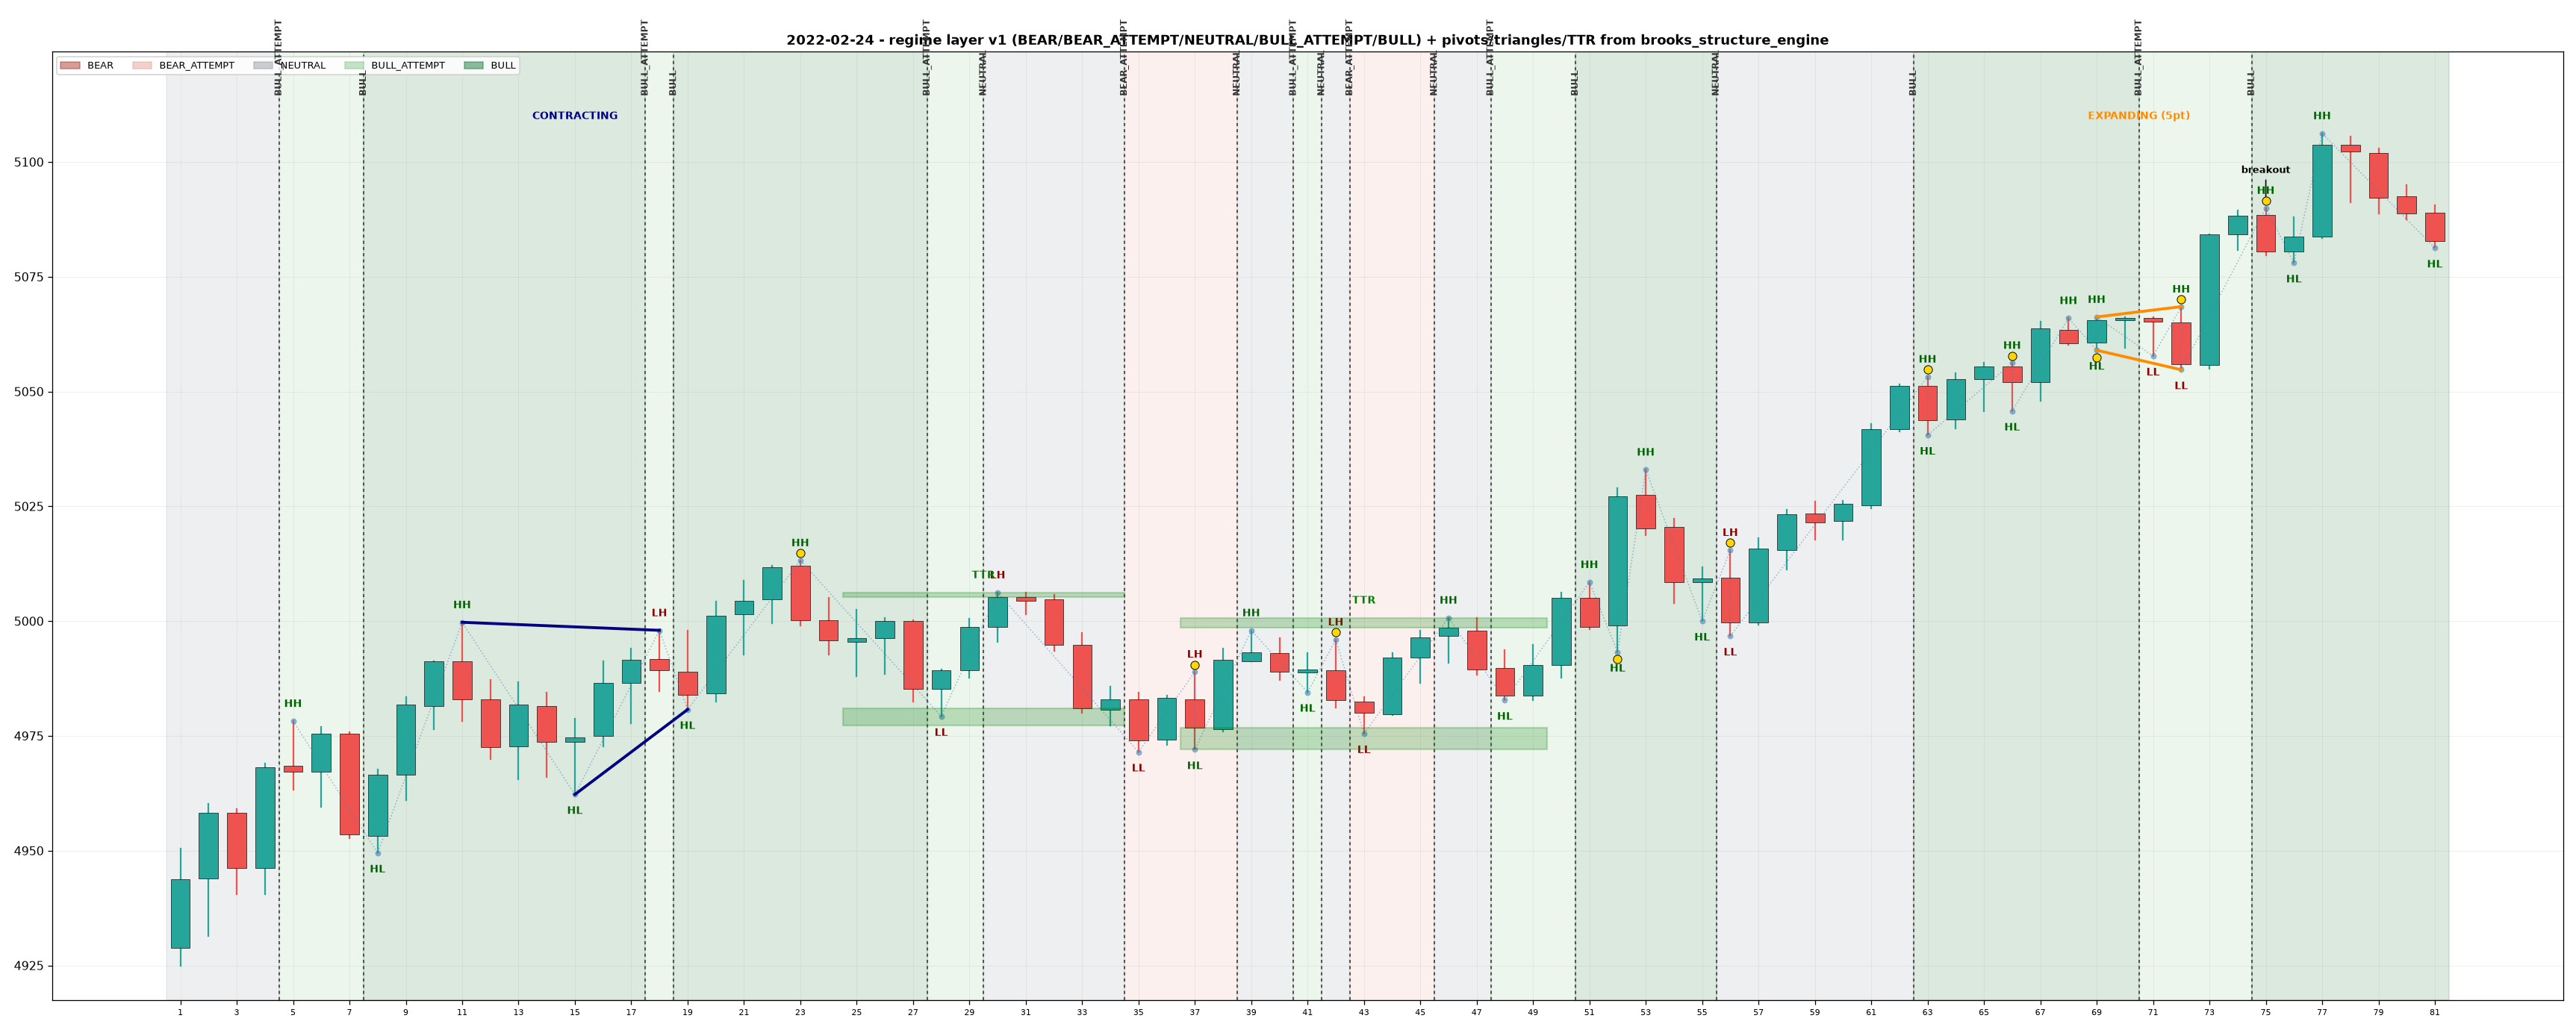
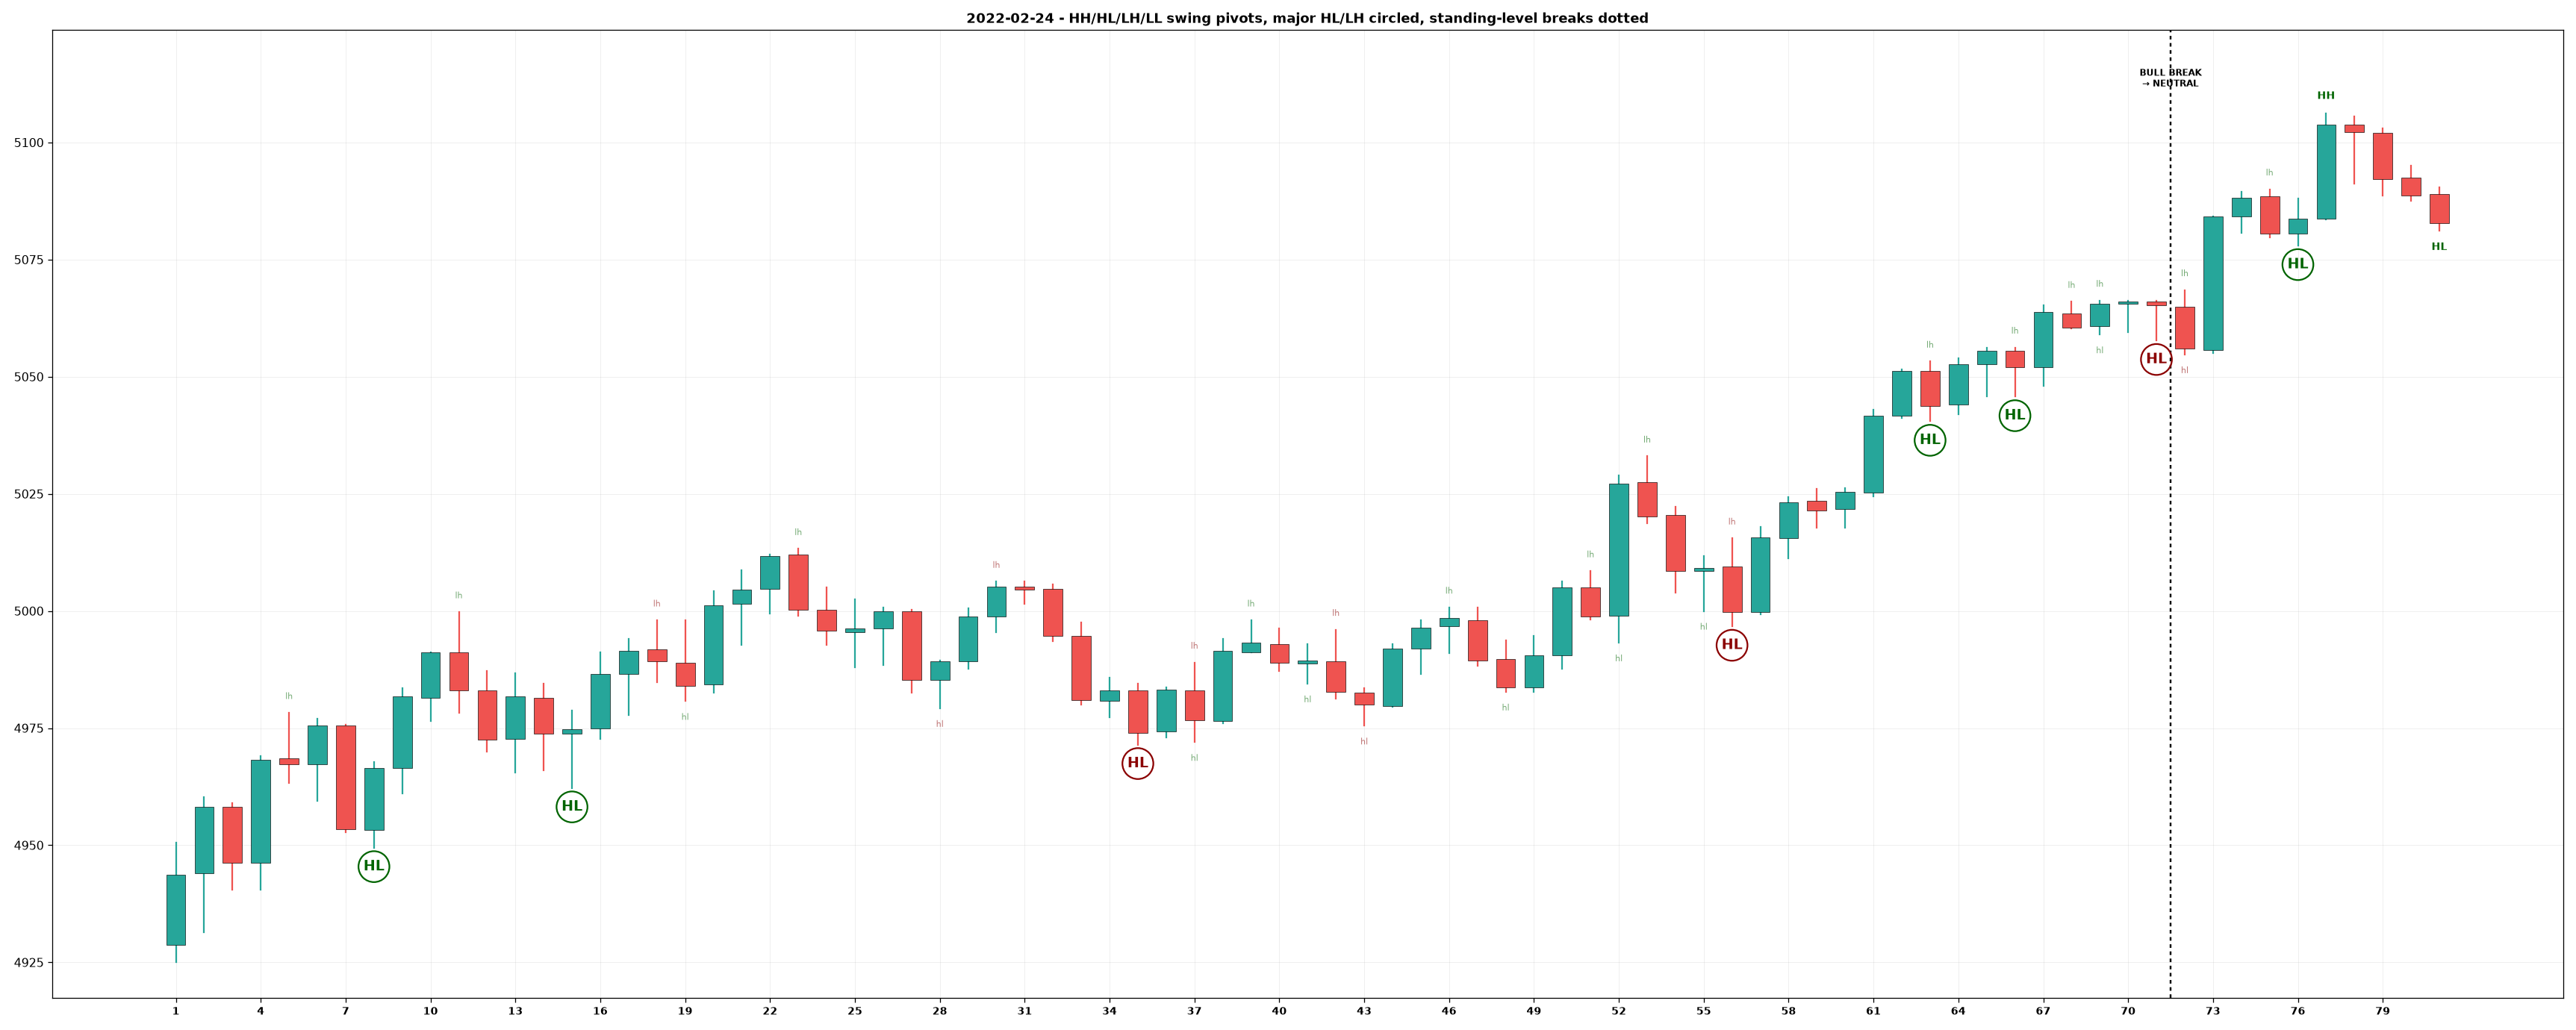
feat(regime-v2): major/minor HL/LH, standing-level break detection, attempt-phase gate
Extends brooks_regime_layer.py (built on, not modifying, brooks_structure_engine.py):
- major vs minor HL/LH: deepest/highest pending pivot confirmed major only when a
  later bar's raw extreme beats the running day high/low, tick-order aware for OB bars
- standing major level persists until superseded or broken (break -> neutral, drawn
  as a dotted flip line)
- post-break reconfirmation requires an actual HH/LH pivot, not just any new-extreme
  poke, so the attempt phase can't self-confirm off the break bar's own wick

Validated bar-by-bar against user's chart reads on 2022-02-24 (major HL at 8/15/35/
56/63/66/71/76, minor at 19, break at 72). Bear side (major LH) implemented but not
yet validated - 2022-04-12 is next.

diff --git a/scripts/brooks_regime_layer.py b/scripts/brooks_regime_layer.py
@@ -186,64 +186,115 @@ def build(DAY):
         regime[i] = cur
     flips = [i for i in range(1, n) if regime[i] != regime[i-1]]
 
-    # ---- chart (base layers mirror brooks_structure_engine.py, regime is new) ----
-    pb = [p[0] for p in piv]; pp = [H[p[0]] if p[1] == "H" else L[p[0]] for p in piv]
-    fig, ax = plt.subplots(figsize=(30, 12)); off = 0.014*(H.max()-L.min())
+    # ==== NEW: major/minor HL (bull) and LH (bear) — coarse swing structure, distinct
+    # from the fine-grained two-bar/OB tags above. A candidate L-pivot (any HL/LL/DL)
+    # becomes the tracked "deepest pullback since last confirmation"; it is promoted to
+    # MAJOR only when a later bar's raw High exceeds the running all-time-high that stood
+    # when this candidate was set. Mirrored for H-pivots (HH/LH/DH) -> major LH, confirmed
+    # when a later bar's raw Low undercuts the running all-time-low.
+    #
+    # An OB/equal bar can contain BOTH a high-side and low-side event in one bar — the
+    # confirm-check, break-check, and candidate-update for each side must run in the
+    # bar's actual tick order (already known via evs[i], the same tick-order info the
+    # swing-pivot decomposition above uses), or a bar like an outside bar that broke down
+    # first then rallied to a new extreme gets misread as its OWN new candidate low
+    # instead of merely confirming the PRIOR candidate.
+    #
+    # standing_major_hl/lh = the last CONFIRMED major level, persists until superseded by
+    # the next confirmation or BROKEN (a bar's Low undercuts standing_major_hl, or High
+    # exceeds standing_major_lh) -> recorded in `breaks` as a trend-break-to-neutral event.
+    major_hl = {}; minor_hl = {}   # bar -> low
+    major_lh = {}; minor_lh = {}   # bar -> high
+    breaks = []                    # (bar, "bull"|"bear") — standing major level taken out
+    run_max_H = H[0]; run_min_L = L[0]
+    standing_major_hl = None; standing_major_lh = None
+    cand_lo = None    # (bar, low) deepest L-pivot pending confirmation as major HL
+    cand_hi = None    # (bar, high) highest H-pivot pending confirmation as major LH
+    bull_attempt = False   # since the last bull break: reconfirmation needs a genuine HH pivot,
+    bear_attempt = False   # not just any bar poking a new extreme (S72 ATTEMPT-state intent)
+    break_bar_bull = None  # the exact bar of the last bull break — its OWN pivot (if any)
+    break_bar_bear = None  # doesn't seed the next candidate; the bar AFTER it can
+    tagged_by_bar = {}
+    for (bar, typ, t) in tagged: tagged_by_bar.setdefault(bar, []).append(typ)
 
-    # regime background shading — drawn first, lowest z-order, full height
-    k = 0
-    while k < n:
-        j = k
-        while j+1 < n and regime[j+1] == regime[k]: j += 1
-        ax.axvspan(k-0.5, j+0.5, color=STATE_COLOR[regime[k]], alpha=0.16, zorder=0)
-        k = j+1
+    def do_up(i):
+        nonlocal run_max_H, standing_major_lh, standing_major_hl, cand_lo, cand_hi, bull_attempt, bear_attempt, break_bar_bear
+        if standing_major_lh is not None and H[i] > standing_major_lh:
+            breaks.append((i, "bear")); standing_major_lh = None; cand_hi = None; bear_attempt = True; break_bar_bear = i
+        ok_to_confirm = (not bull_attempt) or ("H" in tagged_by_bar.get(i, []))
+        if H[i] > run_max_H and cand_lo is not None and cand_lo[0] != i and ok_to_confirm:
+            major_hl[cand_lo[0]] = cand_lo[1]; standing_major_hl = cand_lo[1]; cand_lo = None; bull_attempt = False
+        run_max_H = max(run_max_H, H[i])
+        if "H" in tagged_by_bar.get(i, []):
+            if i == break_bar_bear:
+                minor_lh[i] = H[i]   # the break bar's own high doesn't seed the next candidate
+            elif cand_hi is None or H[i] > cand_hi[1]:
+                if cand_hi is not None: minor_lh[cand_hi[0]] = cand_hi[1]
+                cand_hi = (i, H[i])
+            else:
+                minor_lh[i] = H[i]
+
+    def do_down(i):
+        nonlocal run_min_L, standing_major_hl, standing_major_lh, cand_hi, cand_lo, bull_attempt, bear_attempt, break_bar_bull
+        if standing_major_hl is not None and L[i] < standing_major_hl:
+            breaks.append((i, "bull")); standing_major_hl = None; cand_lo = None; bull_attempt = True; break_bar_bull = i
+        ok_to_confirm = (not bear_attempt) or ("L" in tagged_by_bar.get(i, []))
+        if L[i] < run_min_L and cand_hi is not None and cand_hi[0] != i and ok_to_confirm:
+            major_lh[cand_hi[0]] = cand_hi[1]; standing_major_lh = cand_hi[1]; cand_hi = None; bear_attempt = False
+        run_min_L = min(run_min_L, L[i])
+        if "L" in tagged_by_bar.get(i, []):
+            if i == break_bar_bull:
+                minor_hl[i] = L[i]   # the break bar's own low doesn't seed the next candidate
+            elif cand_lo is None or L[i] < cand_lo[1]:
+                if cand_lo is not None: minor_hl[cand_lo[0]] = cand_lo[1]
+                cand_lo = (i, L[i])
+            else:
+                minor_hl[i] = L[i]
+
+    for i in range(n):
+        for ev in evs.get(i, []):
+            do_up(i) if ev == "U" else do_down(i)
+
+    # ---- chart: candles + HH/HL/LH/LL labels only (stripped for bar-by-bar review) ----
+    fig, ax = plt.subplots(figsize=(30, 12)); off = 0.014*(H.max()-L.min())
 
     for i in range(n):
         col = "#26a69a" if C[i] >= O[i] else "#ef5350"
         ax.plot([i, i], [L[i], H[i]], color=col, lw=1.4, zorder=2)
         ax.add_patch(plt.Rectangle((i-0.34, min(O[i], C[i])), 0.68, max(abs(C[i]-O[i]), .02), facecolor=col, edgecolor="black", lw=0.4, zorder=3))
-    for i, s in ob_side.items():
-        ax.plot(i, H[i]+off*0.6 if s == "U" else L[i]-off*0.6, "o", ms=7, color="gold", mec="black", mew=0.6, zorder=8)
-    ax.plot(pb, pp, color="steelblue", lw=1.0, ls=":", marker="o", ms=4, alpha=0.5, zorder=5)
     for (bar, typ, t) in tagged:
-        c = "darkgreen" if t in ("HH","HL") else ("darkred" if t in ("LH","LL") else "gray")
-        ax.text(bar, (H[bar]+off) if typ == "H" else (L[bar]-off), t, ha="center", va="bottom" if typ == "H" else "top", fontsize=8.5, fontweight="bold", color=c, zorder=7)
+        if t not in ("HH", "HL", "LH", "LL"): continue
+        c = "darkgreen" if t in ("HH","HL") else "darkred"
+        y = (H[bar]+off) if typ == "H" else (L[bar]-off)
+        va = "bottom" if typ == "H" else "top"
+        if typ == "L" and bar in major_hl:
+            ax.text(bar, y, "HL", ha="center", va=va, fontsize=12, fontweight="bold", color=c, zorder=7,
+                    bbox=dict(boxstyle="circle,pad=0.35", fc="none", ec=c, lw=1.4))
+        elif typ == "H" and bar in major_lh:
+            ax.text(bar, y, "LH", ha="center", va=va, fontsize=12, fontweight="bold", color=c, zorder=7,
+                    bbox=dict(boxstyle="circle,pad=0.35", fc="none", ec=c, lw=1.4))
+        elif typ == "L" and bar in minor_hl:
+            ax.text(bar, y, "hl", ha="center", va=va, fontsize=7, fontweight="normal", color=c, alpha=0.55, zorder=7)
+        elif typ == "H" and bar in minor_lh:
+            ax.text(bar, y, "lh", ha="center", va=va, fontsize=7, fontweight="normal", color=c, alpha=0.55, zorder=7)
+        else:
+            ax.text(bar, y, t, ha="center", va=va, fontsize=8.5, fontweight="bold", color=c, zorder=7)
 
-    def draw_tri(mem, color, fill, label, brk=None):
-        Hs = [(tagged[m][0], px(m)) for m in mem if tagged[m][1] == "H"]
-        Ls = [(tagged[m][0], px(m)) for m in mem if tagged[m][1] == "L"]
-        x0 = min(Hs[0][0], Ls[0][0])-0.5; x1 = max(Hs[-1][0], Ls[-1][0])+0.5
-        ax.plot([Hs[0][0], Hs[-1][0]], [Hs[0][1], Hs[-1][1]], color=color, lw=2.4, zorder=6)
-        ax.plot([Ls[0][0], Ls[-1][0]], [Ls[0][1], Ls[-1][1]], color=color, lw=2.4, zorder=6)
-        ax.text((x0+x1)/2, H.max()+off, label, ha="center", va="bottom", fontsize=9, fontweight="bold", color=color, zorder=9)
-        if brk is not None:
-            ax.annotate("breakout", (brk, H[brk]), (brk, H[brk]+off*3), fontsize=8, color="black", fontweight="bold", ha="center", arrowprops=dict(arrowstyle="->", color="black"))
-    for (Hs, Ls, mem) in contract: draw_tri(mem, "navy", None, "CONTRACTING")
-    for (mem, brk) in expand: draw_tri(mem, "darkorange", None, "EXPANDING (5pt)", brk)
-    for (a, z) in ttr:  # TTR boundary ZONES
-        top_body = C[a:z+1].max(); top_wick = H[a:z+1].max()
-        bot_body = C[a:z+1].min(); bot_wick = L[a:z+1].min()
-        x0, x1 = a-0.5, z+0.5
-        ax.add_patch(plt.Rectangle((x0, top_body), x1-x0, top_wick-top_body, facecolor="green", alpha=0.22, edgecolor="green", lw=1.4, zorder=11))
-        ax.add_patch(plt.Rectangle((x0, bot_wick), x1-x0, bot_body-bot_wick, facecolor="green", alpha=0.22, edgecolor="green", lw=1.4, zorder=11))
-        ax.text((x0+x1)/2, top_wick+off*1.0, "TTR", ha="center", va="bottom", fontsize=9, fontweight="bold", color="green", zorder=11)
-
-    # NEW: dotted flip lines + state-name tag at each regime transition
-    for i in flips:
-        ax.axvline(i-0.5, color="#555555", lw=1.3, ls=(0, (2, 2)), zorder=4)
-        ax.text(i-0.5, H.max()+off*3.2, STATE_NAME[regime[i]], ha="center", va="bottom", fontsize=7.5, fontweight="bold", color="#333333", rotation=90, zorder=9)
+    for (bar, side) in breaks:
+        ax.axvline(bar-0.5, color="black", lw=1.5, ls=(0, (2, 2)), zorder=4)
+        ax.text(bar-0.5, H.max()+off*2, "%s BREAK\n→ NEUTRAL" % side.upper(), ha="center", va="bottom", fontsize=7.5, fontweight="bold", color="black", zorder=9)
 
     ax.set_ylim(L.min()-off*3, H.max()+off*7)
-    ax.set_xticks(range(0, n, 2)); ax.set_xticklabels([str(i+1) for i in range(0, n, 2)], fontsize=7); ax.grid(alpha=0.25, lw=0.5)
-    ax.set_title("%s - regime layer v1 (%s) + pivots/triangles/TTR from brooks_structure_engine" % (DAY, "/".join(STATE_NAME[s] for s in (-2,-1,0,1,2))), fontsize=11, fontweight="bold")
-
-    # legend for regime shading
-    handles = [plt.Rectangle((0,0),1,1, color=STATE_COLOR[s], alpha=0.5) for s in (-2,-1,0,1,2)]
-    ax.legend(handles, [STATE_NAME[s] for s in (-2,-1,0,1,2)], loc="upper left", fontsize=8, ncol=5, framealpha=0.85)
+    ax.set_xticks(range(0, n, 3)); ax.set_xticklabels([str(i+1) for i in range(0, n, 3)], fontsize=9, fontweight="bold"); ax.grid(alpha=0.25, lw=0.5)
+    ax.set_title("%s - HH/HL/LH/LL swing pivots, major HL/LH circled, standing-level breaks dotted" % DAY, fontsize=11, fontweight="bold")
 
     fig.tight_layout()
     out = ROOT/"docs"/"living"/("regime_layer_%s.png" % DAY.replace("-", "")); fig.savefig(out, dpi=115); plt.close(fig)
-    print("saved %s  | contracting=%d expanding=%d ttr=%d flips=%d final=%s" % (out, len(contract), len(expand), len(ttr), len(flips), STATE_NAME[regime[-1]]))
+    print("saved %s  | major_hl=%s minor_hl=%s major_lh=%s minor_lh=%s breaks=%s" % (
+        out,
+        sorted(b+1 for b in major_hl), sorted(b+1 for b in minor_hl),
+        sorted(b+1 for b in major_lh), sorted(b+1 for b in minor_lh),
+        [(b+1, s) for (b, s) in breaks]))
     return str(out)
 
 

diff --git a/docs/living/handoff.md b/docs/living/handoff.md
@@ -1,6 +1,76 @@
 # Handoff — Current State
 **Status:** Living — update every session  
-**Last Updated:** July 20, 2026 (S75V-BL blind-spot reverse-engineering + capture pipeline; prior: 75Q + 75R + Setup Marker rebuild + 75T + 75U + 75V recording pipeline + S77 security hardening; merged S76 Mac swing-levels work)
+**Last Updated:** July 21, 2026 (regime/v2-multistate kickoff on new Windows PC — brooks_regime_layer.py + major/minor HL/LH; prior: S75V-BL blind-spot reverse-engineering + capture pipeline)
+
+---
+
+## Regime/v2-multistate kickoff (2026-07-21, new Windows PC, branch `main`)
+
+**Machine context:** first session on a fresh Windows machine (user `Thomas-Code`, not `Admin`).
+No system Python/pip; installed a portable embeddable-zip Python 3.12.7 + bootstrapped pip at
+`%LOCALAPPDATA%\Programs\Python\Python312` (MSI installer and MS Store both non-functional in
+this environment — no Windows Installer service, no Store licensing). `python`/`pip` are on
+user PATH for new shells. `requirements.txt` deps installed (boto3, scipy, plotly,
+exchange-calendars, etc. were missing and got added).
+
+**Repo-wide path fix:** `c:\Users\Admin\myquant` was hardcoded (old machine) across 87 `.py`
+files. Fixed all of them to derive ROOT from `Path(__file__).resolve()` — **committed as
+`d22e439`** (by a parallel Claude Code session on this same machine, not this conversation;
+confirmed benign by the user). `brooks_structure_engine.py` itself was fixed first and
+smoke-tested (`python scripts/brooks_structure_engine.py 2022-02-24` → `docs/living/tri_20220224.png`,
+contracting=1 expanding=1 ttr=2 — matches the S63 baseline).
+
+**NEW: `scripts/brooks_regime_layer.py`** — the multi-state regime layer wired on TOP of
+`brooks_structure_engine.py` per the S72 design brief (`BULL/BULL_ATTEMPT/NEUTRAL/
+BEAR_ATTEMPT/BEAR`). Does **not** modify the structure engine (no importable API for its
+internals, so the two-bar/OB/pivot primitives are mirrored, not imported) and does **not**
+touch or reuse the banned old regime engine (`brooks_regime_day.py`, [[brooks_regime_engine_broken]]).
+**Committed baseline in `d22e439` is an early draft — substantial uncommitted refinements
+are sitting in the working tree right now (not yet committed by this conversation).**
+
+**Built so far, validated bar-by-bar on 2022-02-24 with the user:**
+1. Stripped chart: candles + HH/HL/LH/LL labels only + bold bar numbers every 3rd bar (OB
+   dots, triangles, TTR zones, old naive ±1-per-pivot ladder all removed from display —
+   the naive ladder code (`score`/`regime_at_pivot`) is still in the file, unused by the
+   chart now, likely dead weight to clean up or repurpose next session).
+2. **Major vs minor HL/LH** — a coarser swing concept than the two-bar tags (a mechanically-
+   tagged LL can still be a "major HL" in the user's read, e.g. bars 35/56). Algorithm:
+   track the deepest pending L-pivot (any HL/LL/DL) as `cand_lo`; confirm it as MAJOR only
+   when a later bar's raw High exceeds the running day-high that stood when the candidate
+   was set (mirrored for H-pivots → major LH vs running day-low). Requires OB/equal-bar tick
+   order (`evs[i]`, already computed for the two-bar decomposition) to sequence the
+   confirm-check vs candidate-update correctly within a single bar — got this wrong twice
+   (bar 52 false-major, bar 69 self-confirming its own same-bar candidate) before the user
+   caught both from raw price/tick-order review.
+3. **Standing-level break → neutral:** the last CONFIRMED major HL/LH persists until either
+   superseded by the next confirmation or BROKEN (a bar's Low undercuts standing major HL /
+   High exceeds standing major LH) → recorded as a break event, drawn as a dotted vertical
+   line + label. Validated case: bar 71 confirms major HL (via bar 72's up-tick, OB bar,
+   up-first) then bar 72's own down-tick (same bar) breaks it → neutral.
+4. **Attempt-phase reconfirmation gate:** right after a break, the next major HL/LH can't be
+   reconfirmed by just any bar poking a new extreme — it needs an actual new HH/LH **pivot**
+   to form first (not required pre-break, only during the attempt phase, per user: "needs a
+   fresh HH pivot first, not just any bar poking a new high"). This is what correctly pushed
+   the post-break sequence to bar 76 confirmed-at-77, instead of the break bar's own low
+   (bar 72) confirming one bar later via a bare high poke (bar 73).
+
+**Fully validated on 2022-02-24, user-confirmed correct:** major HL at 8, 15, 35, 56, 63, 66,
+71, 76; minor at 19 (+ 28, 37, 41, 43, 48, 52, 55, 69, 72 mechanically, unreviewed in detail);
+one break at bar 72 (bull → neutral); bar 73 = "new bull attempt" (not yet visually
+distinguished from other minor pivots — open item).
+
+**OPEN / NEXT SESSION:**
+1. Give the "bull attempt" phase (bars 73–76, between the break and the next confirmed
+   major) its own visual treatment on the chart — currently no distinct marker.
+2. Symmetric bear-side (major LH / bear break / bear-attempt gate) is implemented but
+   **unvalidated** — 2022-02-24 is a bull day, so `major_lh` stayed empty all session.
+   2022-04-12 (the S62 "must read bear" test day) is the natural next validation target.
+3. The old naive `score`/`regime_at_pivot` ±1-per-pivot ladder is still in the file but
+   unused by the chart/output — decide whether to delete it or repurpose it as the actual
+   BULL/BULL_ATTEMPT/NEUTRAL/BEAR_ATTEMPT/BEAR state driven by (major level + break +
+   attempt-gate) logic above, which is the real deliverable per the S72 brief.
+4. Nothing from this conversation's edits to `brooks_regime_layer.py` is committed yet —
+   review/commit when ready (separately from whatever the parallel session is doing).
 
 ---
 